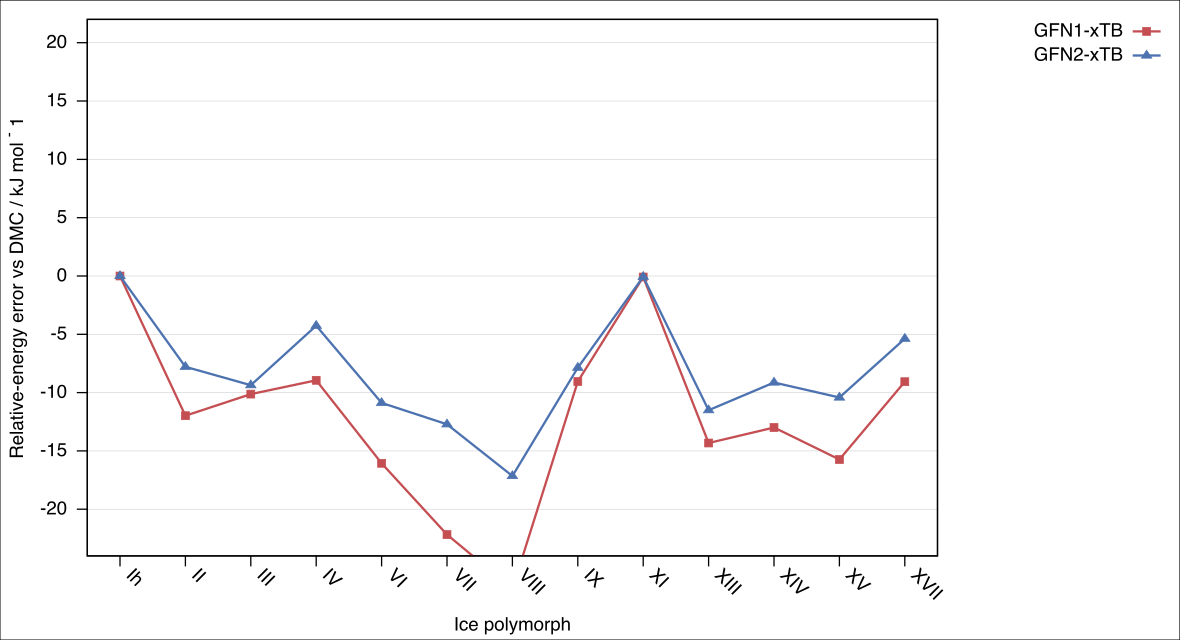
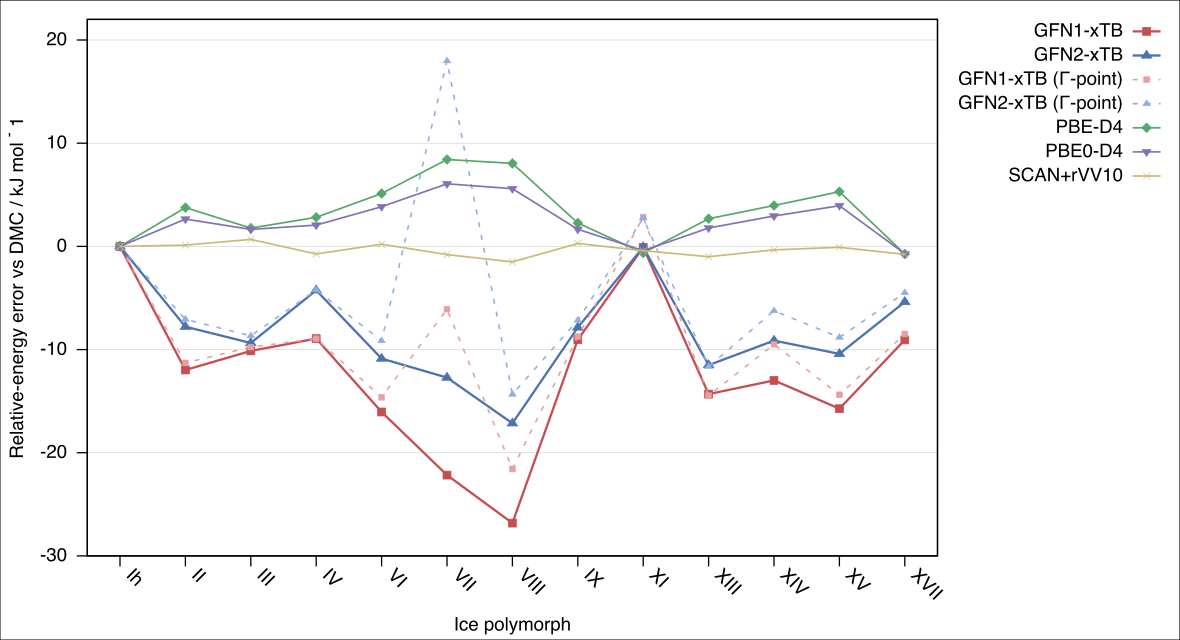
Add DMC-ICE13 relative error figures

diff --git a/DMC-ICE13/scripts/make_dmc_ice13_plots.py b/DMC-ICE13/scripts/make_dmc_ice13_plots.py
@@ -346,11 +346,22 @@ def main() -> None:
 
     err_dat = DATA / "relative_errors_for_plot.dat"
     with err_dat.open("w") as handle:
-        handle.write("# index phase GFN1_error GFN2_error\n")
+        handle.write(
+            "# index phase GFN1_error GFN2_error GFN1_Gamma_error GFN2_Gamma_error "
+            "PBE-D4_error PBE0-D4_error SCAN+rVV10_error PBE_error PBE0_error SCAN_error\n"
+        )
         for index, phase in enumerate(PHASES, start=1):
             handle.write(
                 f"{index} {phase} {method_rel['GFN1-xTB'][phase] - dmc_rel[phase]:.6f} "
-                f"{method_rel['GFN2-xTB'][phase] - dmc_rel[phase]:.6f}\n"
+                f"{method_rel['GFN2-xTB'][phase] - dmc_rel[phase]:.6f} "
+                f"{gamma_rel['GFN1-xTB (Gamma)'][phase] - dmc_rel[phase]:.6f} "
+                f"{gamma_rel['GFN2-xTB (Gamma)'][phase] - dmc_rel[phase]:.6f} "
+                f"{method_rel['PBE-D4'][phase] - dmc_rel[phase]:.6f} "
+                f"{method_rel['PBE0-D4'][phase] - dmc_rel[phase]:.6f} "
+                f"{method_rel['SCAN+rVV10'][phase] - dmc_rel[phase]:.6f} "
+                f"{method_rel['PBE'][phase] - dmc_rel[phase]:.6f} "
+                f"{method_rel['PBE0'][phase] - dmc_rel[phase]:.6f} "
+                f"{method_rel['SCAN'][phase] - dmc_rel[phase]:.6f}\n"
             )
 
     mae_dat = DATA / "relative_mae_for_plot.dat"
@@ -450,10 +461,38 @@ set ylabel 'Relative-energy error vs DMC / kJ mol^{-1}'
 set xlabel 'Ice polymorph'
 set xrange [0.5:13.5]
 set xtics rotate by -45
-set yrange [-24:22]
+set yrange [-30:22]
 set yzeroaxis lw 1.2 lc rgb '#333333'
 plot '{err_dat}' using 1:3:xtic(2) w lp ls 2 title 'GFN1-xTB', \\
-     '' using 1:4 w lp ls 3 title 'GFN2-xTB'
+	     '' using 1:4 w lp ls 3 title 'GFN2-xTB', \\
+	     '' using 1:5 w lp ls 7 title 'GFN1-xTB (\u0393-point)', \\
+	     '' using 1:6 w lp ls 8 title 'GFN2-xTB (\u0393-point)', \\
+	     '' using 1:7 w lp ls 4 title 'PBE-D4', \\
+	     '' using 1:8 w lp ls 5 title 'PBE0-D4', \\
+	     '' using 1:9 w lp ls 6 title 'SCAN+rVV10'
+"""
+    )
+
+    run_gnuplot(
+        common
+        + f"""
+set output '{FIGURES / 'dmc_ice13_relative_errors_parent_dft.svg'}'
+set ylabel 'Relative-energy error vs DMC / kJ mol^{-1}'
+set xlabel 'Ice polymorph'
+set xrange [0.5:13.5]
+set xtics rotate by -45
+set yrange [-30:22]
+set yzeroaxis lw 1.2 lc rgb '#333333'
+plot '{err_dat}' using 1:3:xtic(2) w lp ls 2 title 'GFN1-xTB', \\
+	     '' using 1:4 w lp ls 3 title 'GFN2-xTB', \\
+	     '' using 1:5 w lp ls 7 title 'GFN1-xTB (\u0393-point)', \\
+	     '' using 1:6 w lp ls 8 title 'GFN2-xTB (\u0393-point)', \\
+	     '' using 1:7 w lp ls 4 title 'PBE-D4', \\
+	     '' using 1:10 w lp ls 10 title 'PBE', \\
+	     '' using 1:8 w lp ls 5 title 'PBE0-D4', \\
+	     '' using 1:11 w lp ls 11 title 'PBE0', \\
+	     '' using 1:9 w lp ls 6 title 'SCAN+rVV10', \\
+	     '' using 1:12 w lp ls 12 title 'SCAN'
 """
     )
 